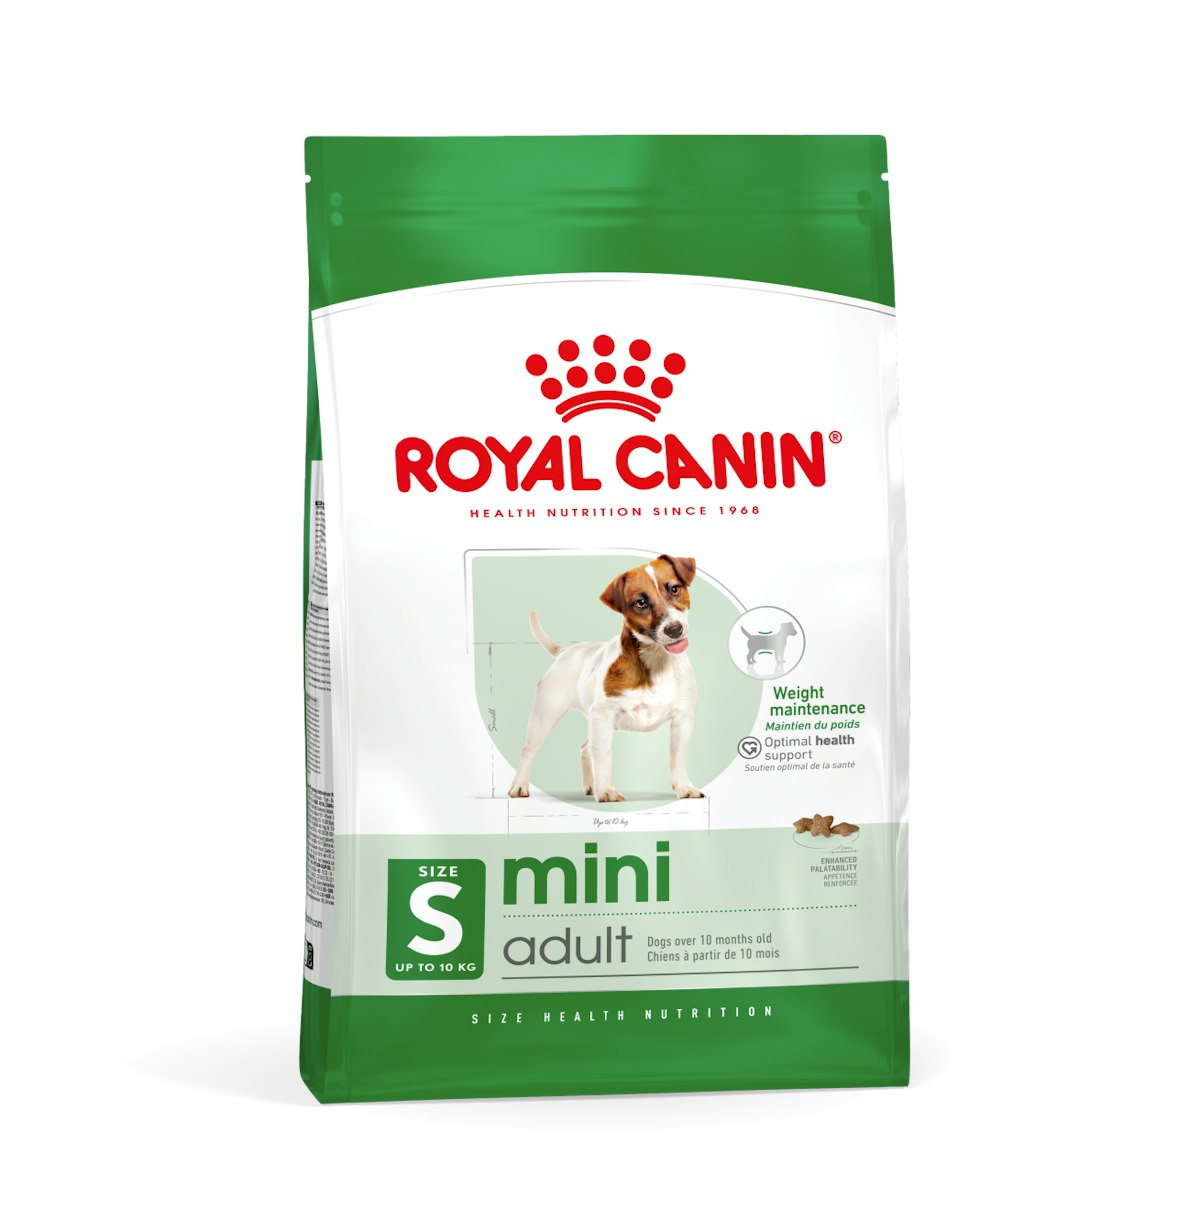
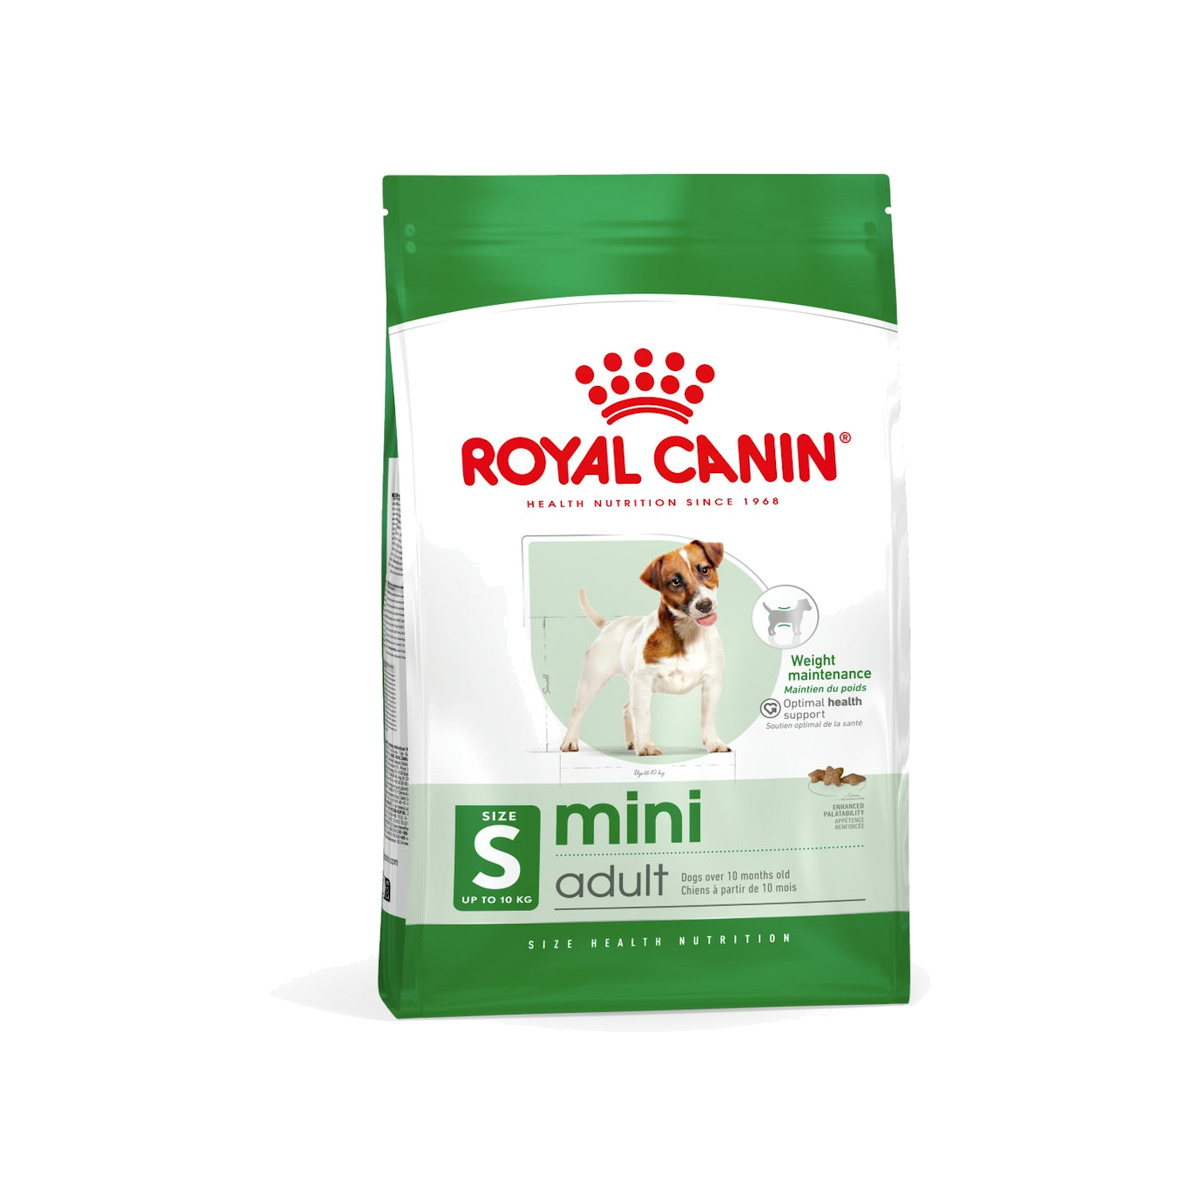
fix(shop): p221 Mini Adult packshot on #FFFFFF, no purple well
Replace royal-canin-mini-adult-2kg.jpg with a 1200 catalog-scale
JPEG whose corners are pure #FFFFFF. Shop card/PDP/cart photo wells
used brand purple (--pepito-base); they are now #FFFFFF so packshots
never sit on بنفش. Cache-bust ?v=white-v1. No purple test SKU.

Changed region(s): [[0.2467, 0.0925, 0.7708, 0.925]]

diff --git a/packages/api/src/data/shop-pilot-products.selftest.ts b/packages/api/src/data/shop-pilot-products.selftest.ts
@@ -102,6 +102,35 @@ async function main() {
 
   const bust = readFileSync(join(repoRoot, 'tmp/cache-bust-royal-canin-pilot-3sku-v1'), 'utf8');
   assert.match(bust, /royal-canin-pilot-3sku-v1/, 'cache-bust marker present');
+  const whiteBust = readFileSync(join(repoRoot, 'tmp/cache-bust-royal-canin-mini-adult-white-v1'), 'utf8');
+  assert.match(whiteBust, /royal-canin-mini-adult-white-v1/, 'white packshot cache-bust marker present');
+
+  const p221 = rows.find((r) => r.slug === SLUGS[0]);
+  assert.ok(p221, 'p221 row');
+  assert.match(p221!.image, /royal-canin-mini-adult-2kg\.jpg\?v=white-v1$/, 'p221 image is cache-busted white-v1');
+  assert.doesNotMatch(p221!.image, /purple|5c4d91|بنفش/i, 'p221 must not be a purple cutout');
+  assert.equal(seed.ROYAL_CANIN_PILOT_PRODUCTS.length, 3, 'no extra purple test SKU');
+  assert.ok(
+    !seed.ROYAL_CANIN_PILOT_SLUGS.some((s) => /purple|bg-purple/i.test(s)),
+    'no purple-bg test slug'
+  );
+
+  const pepitoCss = readFileSync(join(repoRoot, 'packages/web/src/styles/pepito.css'), 'utf8');
+  assert.match(
+    pepitoCss,
+    /\.pd-shop-card-media\s*\{[^}]*background:\s*#ffffff/,
+    'listing card photo well is #ffffff, not brand purple'
+  );
+  assert.match(
+    pepitoCss,
+    /\.pd-dk-gallery-main\s*\{[^}]*background:\s*#ffffff/,
+    'PDP gallery well is #ffffff'
+  );
+  assert.match(
+    pepitoCss,
+    /\.pd-shop-cart-thumb\s*\{[^}]*background:\s*#ffffff/,
+    'cart thumb well is #ffffff'
+  );
 
   for (const name of IMAGES) {
     const abs = join(repoRoot, 'packages/web/public/pepito/uploads', name);

diff --git a/packages/web/src/styles/pepito.css b/packages/web/src/styles/pepito.css
@@ -8960,7 +8960,8 @@ a.pepito-btn.pepito-human-consult-cta:hover {
   position: relative;
   display: block;
   aspect-ratio: 1 / 1;
-  background: var(--pepito-base);
+  /* Shop packshots are #FFFFFF — never brand purple behind the product. */
+  background: #ffffff;
   overflow: hidden;
 }
 .pd-shop-card-media img {
@@ -9444,7 +9445,7 @@ a.pepito-btn.pepito-human-consult-cta:hover {
 .pd-dk-gallery-main {
   position: relative;
   border-radius: 16px;
-  background: var(--pepito-white);
+  background: #ffffff;
   border: 1px solid rgba(92, 77, 145, 0.1);
   aspect-ratio: 1;
   display: grid;
@@ -9482,7 +9483,7 @@ a.pepito-btn.pepito-human-consult-cta:hover {
   height: 4.25rem;
   border-radius: 12px;
   border: 1px solid rgba(92, 77, 145, 0.14);
-  background: var(--pepito-white);
+  background: #ffffff;
   padding: 0.25rem;
   cursor: pointer;
   overflow: hidden;
@@ -9947,7 +9948,7 @@ a.pepito-btn.pepito-human-consult-cta:hover {
 .pd-shop-detail-media {
   position: relative;
   border-radius: 28px;
-  background: var(--pepito-base);
+  background: #ffffff;
   border: 1px solid rgba(92, 77, 145, 0.1);
   aspect-ratio: 1;
   display: grid;
@@ -10050,7 +10051,7 @@ a.pepito-btn.pepito-human-consult-cta:hover {
   height: 88px;
   border-radius: 16px;
   overflow: hidden;
-  background: var(--pepito-base);
+  background: #ffffff;
   display: block;
 }
 .pd-shop-cart-thumb img {

diff --git a/packages/web/src/lib/theme.selftest.ts b/packages/web/src/lib/theme.selftest.ts
@@ -130,6 +130,11 @@ assert.match(pepitoCss, /\.pd-dk-tabs\s*\{[\s\S]*?var\(--pd-surface-muted/, 'PDP
 assert.match(pepitoCss, /\.pd-dk-tabs button\.is-active\s*\{[\s\S]*?var\(--pd-surface\)/, 'PDP active tab uses --pd-surface');
 assert.match(pepitoCss, /\.pd-dk-quick-param span\s*\{[\s\S]*?var\(--pd-muted/, 'PDP param labels use --pd-muted');
 assert.match(pepitoCss, /\.pd-dk-quick-param strong\s*\{[\s\S]*?var\(--pd-ink/, 'PDP param values use --pd-ink');
+assert.match(
+  pepitoCss,
+  /\.pd-shop-card-media\s*\{[^}]*background:\s*#ffffff/,
+  'shop card photo well stays #FFFFFF (no brand purple behind packshots)'
+);
 assert.doesNotMatch(
   pepitoCss,
   /\.pd-dk-quick-param\s*\{[^}]*#fafafa/,

diff --git a/packages/api/src/data/shop-pilot-products.ts b/packages/api/src/data/shop-pilot-products.ts
@@ -7,7 +7,7 @@ import { getDb } from '../db';
 
 const P = '/pepito/uploads';
 
-export const ROYAL_CANIN_PILOT_VERSION = 1;
+export const ROYAL_CANIN_PILOT_VERSION = 2;
 
 export type RoyalCaninPilotProduct = {
   id: string;
@@ -56,7 +56,7 @@ export const ROYAL_CANIN_PILOT_PRODUCTS: RoyalCaninPilotProduct[] = [
     petTypes: ['dog'],
     priceToman: 8_881_000,
     costToman: 8_881_000,
-    image: `${P}/royal-canin-mini-adult-2kg.jpg`,
+    image: `${P}/royal-canin-mini-adult-2kg.jpg?v=white-v1`,
     badge: 'new',
     inStock: true,
     stockQty: 25,

diff --git a/packages/web/src/data/shopCatalog.ts b/packages/web/src/data/shopCatalog.ts
@@ -3241,8 +3241,8 @@ export const SHOP_PRODUCTS: ShopProduct[] = [
     categorySlug: 'dog-food',
     petTypes: ['dog'],
     priceToman: 8_881_000,
-    image: `${P}/royal-canin-mini-adult-2kg.jpg`,
-    images: [`${P}/royal-canin-mini-adult-2kg.jpg`],
+    image: `${P}/royal-canin-mini-adult-2kg.jpg?v=white-v1`,
+    images: [`${P}/royal-canin-mini-adult-2kg.jpg?v=white-v1`],
     badge: 'new',
     inStock: true,
     sku: '402170',
